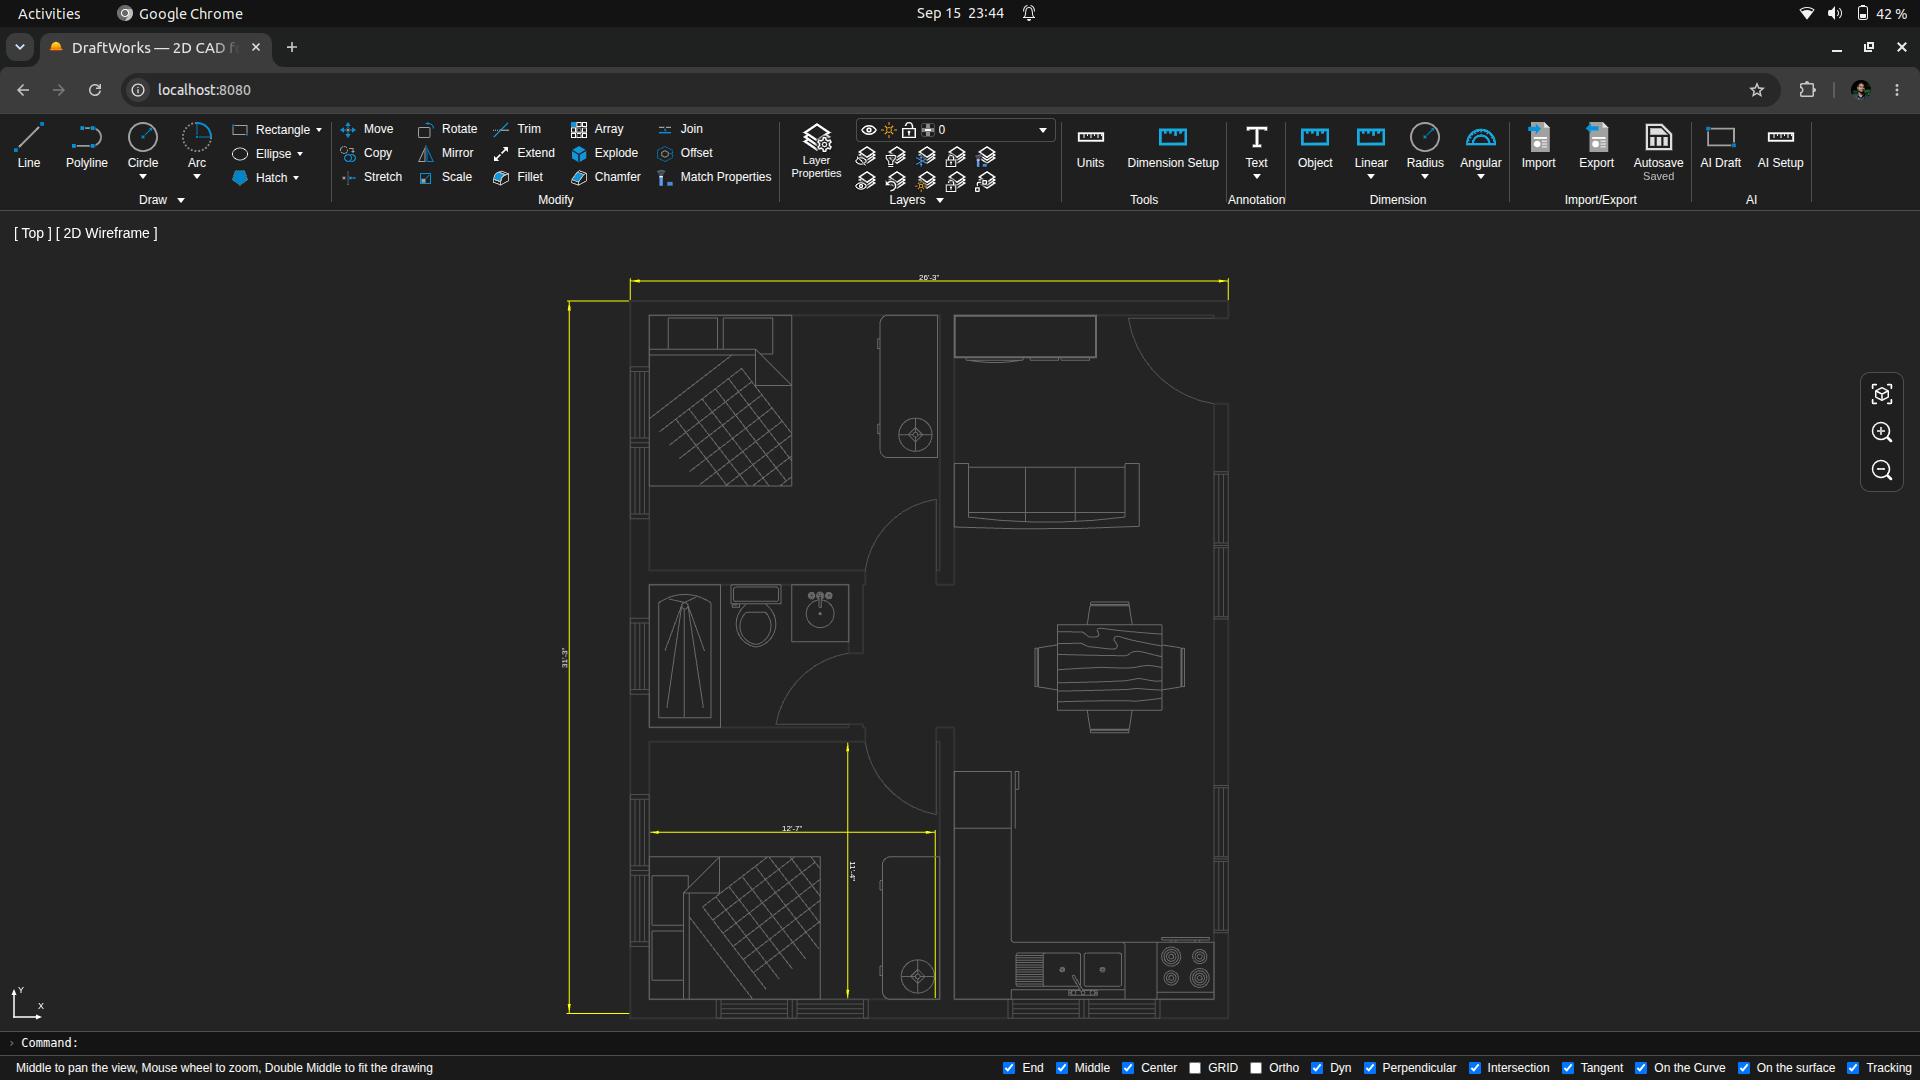
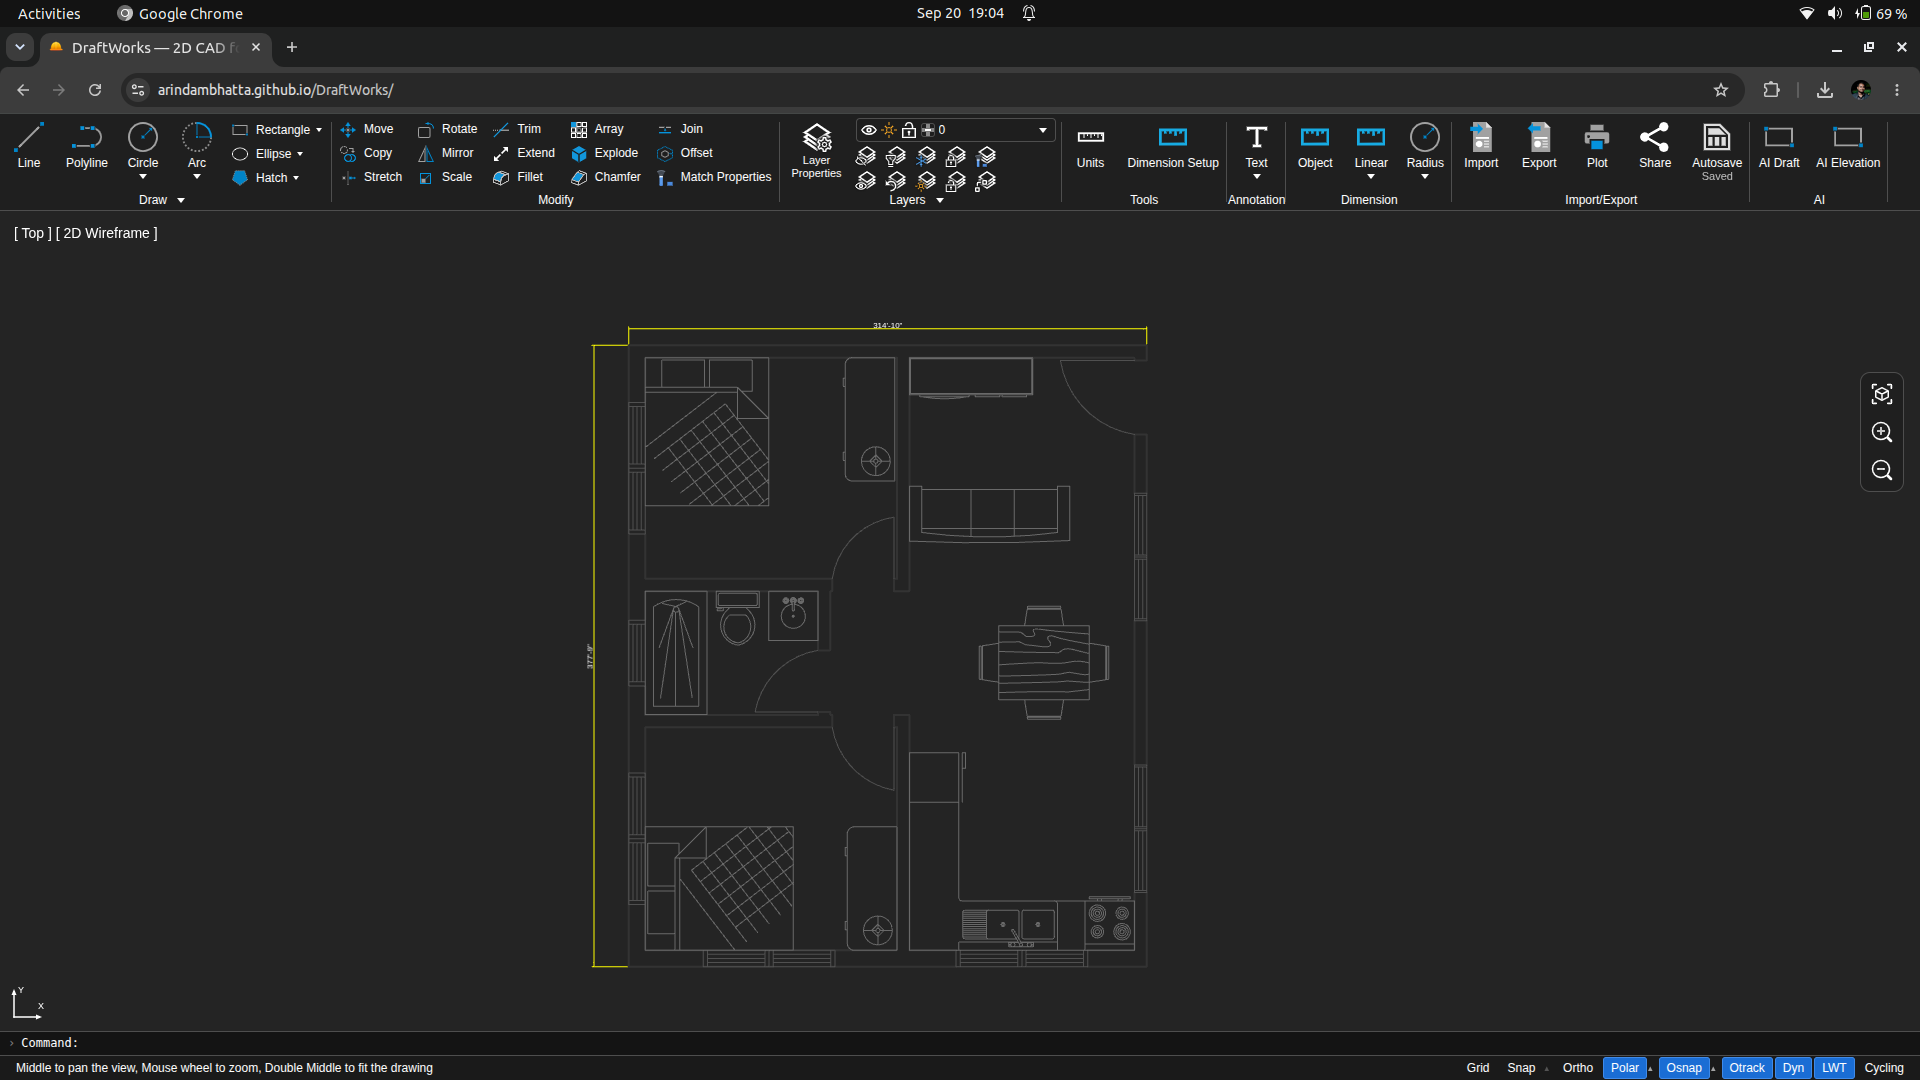
feat(docs): update README with enhanced descriptions and new images; add missing image files

diff --git a/README.md b/README.md
@@ -1,82 +1,184 @@
+<div align="center">
+
 # DraftWorks
 
-A web-based 2D CAD drafting application for civil engineering — structural drawings, architectural plans, and 2D elevations, running entirely in the browser. Similar to AutoCAD, but with a proactive UI: unit setup, dimension setup, and MV (paper/scale) setup are prompted upfront when a new drawing starts.
+**2D CAD drafting that opens in a browser tab.**
 
-DraftWorks pairs an OCCT (OpenCascade) geometry kernel compiled to WebAssembly with a Three.js renderer, so drafting stays precise (real B-Rep geometry, not just pixels) while running with no install and no server round-trip per edit.
+Structural drawings, architectural plans and elevations — with your real DWG files, at real scale, with no install and no license.
 
-## Architecture Drawing
-  <!-- ![Structural framing plan](doc/images/structural-plan.png) -->
-  ![Architectural floor plan](doc/images/architectural-plan.png)
+[**→ Open the app**](https://arindambhatta.github.io/DraftWorks/) · [Report an issue](https://github.com/ArindamBhatta/DraftWorks/issues) · [Architecture notes](doc/architecture.md)
 
-## Structural Drawing
+![Architectural floor plan drawn in DraftWorks](doc/images/architectural-plan.png)
 
+</div>
 
+---
 
+## Why this exists
 
+Every drafting tool asks you to choose between two bad options.
 
-## Features
+The desktop ones are correct but heavy: a license, an install, a machine you have to be sitting at. The browser ones are convenient but approximate — they draw pixels, call it CAD, and fall apart the moment someone sends you a DWG.
 
-- **AutoCAD-style drafting workflow** — command line with alias suggestions and history, unit/dimension/paper (MVSETUP) setup prompted when a new drawing starts
-- **Precise 2D geometry** — real curves and B-Rep edges under the hood, not approximated sketch lines
-- **Snapping & tracking** — object snap, axis/plane snap, point-on-curve snap, and alignment tracking lines
-- **Layers** — per-object layer assignment, current-layer workflow, quick move-to-layer
-- **Dimensioning** — configurable text height, arrow size, extension offset, and unit-aware precision
-- **Undo/redo & transactions** — every edit is transactional and revertible
+DraftWorks is the third option. Real B-Rep geometry from the OCCT kernel compiled to WebAssembly, AutoCAD's command line and function keys, your actual DWG files opening and saving locally — in a tab, on any machine, in about two seconds.
 
-## Tech stack
+**Nothing you draw leaves your computer.** There is no backend. Your drawings live in your browser, your DWG conversion happens in your browser, and if you use the AI features, your API key is yours and the request goes straight from the page.
 
-| Layer | Technology |
-| :--- | :--- |
-| Geometry kernel | OCCT (OpenCascade), compiled to WebAssembly |
-| Rendering | Three.js |
-| Application | TypeScript, npm workspaces monorepo |
-| Build | Rspack |
-| Testing | Rstest |
+---
 
-See [doc/architecture.md](doc/architecture.md) for how the packages fit together.
+## What you get
 
-## Getting started
+### 1. It asks the right questions before you draw a line
+
+<!-- SCREENSHOT: doc/images/unit-setup.png — the Unit Setup dialog, showing the length-type dropdown open and the live Sample Output -->
+![Unit setup dialog](doc/images/unit-setup.png)
+
+Start a new drawing, and DraftWorks asks what every experienced draftsman sets up first, instead of dropping you on a blank canvas with defaults you'll discover are wrong three hours in.
+
+**Units** — Architectural, Decimal, Engineering, Fractional or Scientific, with the precision list changing to match. Pick Architectural and you get fraction denominators down to 1/128". Pick Decimal and you get 0–8 places. Insertion units from millimeters to feet. A live sample reformats as you change it, so you see `5'-8 1/2"` before you commit.
+
+It reads input the way a draftsman writes it: `5'-8 1/2"`, `11'2"`, `8 1/2"`, `1745.50`, `1.7455E+03` all parse. Rounding happens at fraction granularity, so `11.99"` becomes `1'-0"` and not `0'-11"`.
+
+**Dimension styles** — a real named style table with current-style selection and unsaved overrides, exactly like AutoCAD's. Settings map one-to-one onto the DIMVARs you already know: `DIMDLE`, `DIMEXE`, `DIMEXO`, `DIMSE1`/`DIMSE2`, `DIMATFIT`, `DIMTOFL`, `DIMTOL`, `DIMGAP`. Arrowheads set independently per end. Tolerances with method, precision, alignment and zero suppression. ISO defaults out of the box — 2.5 text height, 2.5 arrows, 1.25 extension.
+
+Asked once. Remembered after that — reopen the app and you go straight to a blank drawing.
+
+### 2. Your DWG files just open
+
+<!-- SCREENSHOT: doc/images/dwg-import.png — a real DWG opened in DraftWorks, layers visible in the panel -->
+![A DWG file opened in DraftWorks](doc/images/dwg-import.png)
+
+DWG in, DWG out. DXF in, DXF out. Layers, linetypes and lineweights survive the round trip.
+
+This is the part most browser CAD tools skip, because DWG is a closed, undocumented format. The usual advice is "convert it in AutoCAD first" — which is not a workaround, because anyone who has AutoCAD doesn't need this application.
+
+So DraftWorks ships LibreDWG compiled to WebAssembly and does the conversion **locally, in your tab**. Your drawing is never uploaded anywhere. The module loads on demand, so you only pay for it when you open a DWG.
+
+Honest about the edges: export targets AutoCAD 2000 (R2000) — that's LibreDWG's encoder ceiling, and the dialog says so rather than leaving it vague. Unsupported entities are reported, never dropped silently. If DWG encoding fails you get told, not a DXF quietly renamed `.dwg`.
+
+### 3. AI that drafts — and asks before it guesses
+
+<!-- SCREENSHOT: doc/images/ai-panel.png — the AI panel mid-conversation, showing a clarifying question and a geometry preview -->
+![AI drafting panel](doc/images/ai-panel.png)
+
+Describe what you need. Get real geometry you can dimension, edit and export.
+
+> *"400 dia 12 m pile with helical stirrups"*
+> *"3-pile pile cap, plan and section"*
+> *"I have a 30x40 plot, give me a 2BHK plan"*
+> *"flange, 150 NB, 8 bolt holes"*
+
+Four modes — **Architectural**, **Structural**, **Mechanical** and **Freehand**. The three technical modes **ask clarifying questions before drawing anything**, because a pile detail with a guessed cover depth is worse than no pile detail. Freehand skips the questions and just sketches.
+
+Everything lands as a **preview you confirm** before it touches your drawing. If a parameter was misread, an **Adjust** form lets you correct it without retyping the sentence — and that form works with no API key and no network at all. Each mode keeps its own conversation, so a follow-up revises that drawing rather than starting over. You can edit an earlier prompt and the thread rewinds to it.
+
+**ELEVATION** is the one to try. Draw a plan, pick two corners, choose a side — and DraftWorks reads the facade out of your actual geometry, so openings land at the plan's own spacing. It then asks only what a plan cannot tell it: storeys, plinth, floor-to-floor, sill, lintel, roof type. No AI involved, no guessing.
+
+Bring your own key: **Claude** (`claude-opus-5`) or **Gemini** (`gemini-2.5-pro`). Stored in your browser, sent straight to the provider. Point it at your own proxy if you'd rather keep the key server-side.
+
+### 4. Your work saves itself
+There is no Save button, because there is nothing to remember to press.
+
+Every edit schedules a save two seconds after you stop working — debounced, not a timer that fires mid-command. It writes to IndexedDB **backup first, then primary**, so a browser that dies mid-write leaves your last good drawing intact in both slots instead of a hole. A status light in the ribbon tells you where you stand: pending, saving, saved, offline, error.
+
+Multiple drawings open at once, each saving independently. A recents list with thumbnails. `Ctrl+S` still works if your hands insist.
+
+### 5. Plots at real scale, to PDF
+
+<!-- SCREENSHOT: doc/images/plot-dialog.png — the plot dialog with the live sheet preview -->
+![Plot dialog with live preview](doc/images/plot-dialog.png)
+
+A0 through A4, Letter, Tabloid or custom. Portrait or landscape. Display, Extents or Window.
+
+Standard scales — **1:1, 1:2, 1:5, 1:10, 1:20, 1:25, 1:50, 1:100, 1:200, 1:500, 1:1000** — plus fit-to-paper and free numeric. Draw in feet and plot at 1:50 and the conversion is handled; your sheet comes out right.
+
+Plot styles for Color, Monochrome and Grayscale. Lineweights honored, and *not* scaled by default, because a 0.5 mm pen is 0.5 mm on paper whatever the drawing scale. Plot offset, centering, unprintable margin.
+
+And a **live preview before you commit**, rendering the same sheet the PDF writer uses — not an approximation of it. A plot is the one operation you can't undo.
+
+### 6. The muscle memory carries over
+
+**72 commands**, with the aliases already in your fingers.
+
+`l` line · `pl` polyline · `c` circle · `a` arc · `rec` rectangle · `pol` polygon · `spl` spline · `h` hatch · `t` mtext · `dt` text · `po` point
+`m` move · `co` copy · `ro` rotate · `mi` mirror · `sc` scale · `s` stretch · `tr` trim · `ex` extend · `o` offset · `f` fillet · `cha` chamfer · `ar` array · `br` break · `j` join · `x` explode · `ma` matchprop · `e` erase · `pr` properties
+`dli` linear · `dal` aligned · `dra` radius · `ddi` diameter · `dan` angular · `d` dimstyle
+`la` layer, plus all ten LAY* quick actions — LAYOFF, LAYISO, LAYFRZ, LAYLCK, LAYMCUR and the rest
+
+**Space and Enter repeat the last command.** Trim and Extend have Quick and Standard modes. Fillet and Chamfer carry Radius, Distance, Angle and Trim/No-Trim. Array does rectangular and polar. Offset has Through. The command line suggests as you type and keeps history.
+
+### 7. Snapping you can trust
+Fifteen object snap modes — endpoint, midpoint, center, intersection, perpendicular, tangent, extension, parallel, on-curve, vertex and more — with AutoCAD-style marker glyphs sized in pixels, so they stay readable at any zoom. The snap you'll actually get is amber; the ones merely on offer are green.
+
+The function keys are where you left them:
+
+| | | | |
+|---|---|---|---|
+| **F3** Object snap | **F7** Grid | **F8** Ortho | **F9** Grid snap |
+| **F10** Polar tracking | **F11** Snap tracking | **F12** Dynamic input | **F1** Shortcuts |
+
+**Ortho constrains direction without giving up your snaps.** Drag vertically onto an endpoint that shares your reference X and you get that endpoint exactly — marker and all — with the segment still perfectly vertical. Polar tracking radiates paths at every multiple of your configured angle. Ortho and Polar interlock, as they should.
+
+Dynamic input boxes at the crosshair for typed distances and angles.
+
+### 8. Layers and properties, transactional
+
+Per-layer color, lock, freeze, linetype and lineweight — and layer changes go on the undo stack like everything else. A Layers widget laid out the way you expect: properties on the left, current-layer combo above the quick actions.
+
+Linetypes resolve `byLayer` before they reach the renderer. A properties panel with typed editors for color, layer, linetype, transform and measured geometry facts. MATCHPROP to copy between objects.
+
+**Every edit is a transaction.** Undo and redo cover all of it.
+
+---
+
+## What it doesn't do yet
+
+Worth saying plainly, so nothing surprises you:
+
+- **No blocks.** No BLOCK/INSERT/WBLOCK, no block table. Folders group objects in the project tree; imported files land in a folder of their own.
+- **Model space only.** No layout tabs or paper space — scale is handled at plot time.
+- **No templates.** New drawings start blank and are configured by the setup prompts.
+- **No image export.** PDF via plot, DWG/DXF via export, and that's the list.
+- Circle Tan-Tan-Radius and Tan-Tan-Tan are visible but greyed out — the tangent solve isn't written yet.
+
+### Roadmap
+
+Cloud-hosted drawings, live collaboration and shared links are planned for v2 and are **not in this build** — the Share button currently hands out a link to the app, not to your drawing.
+
+---
+
+## Try it and tell me what's wrong
+
+**[arindambhatta.github.io/DraftWorks](https://arindambhatta.github.io/DraftWorks/)** — no signup, no install.
+
+I'm building this for civil engineers, and the fastest way it gets good is people who draft for a living telling me where it fights them. Open an issue for anything: a command that behaves wrong, a DWG that won't import, a dialog that asks the wrong question, a dimension that plots at the wrong size. Attach the file if you can.
+
+If it's useful to you, a ⭐ genuinely helps more people find it.
+
+---
+
+## Running it locally
 
 ```bash
-# 1. Install JS dependencies and set up the WASM toolchain (first run only)
 npm install
-npm run setup:wasm
-
-# 2. Build the WebAssembly geometry kernel
-npm run build:wasm
-
-# 3. Run the app in dev mode
+npm run setup:wasm     # first run only — fetches the WASM toolchain
+npm run build:wasm     # builds the OCCT + LibreDWG kernels
 npm run dev
 ```
 
-Other useful scripts:
-
 ```bash
 npm run build   # production build
-npm test        # run the test suite
+npm test        # test suite
 npm run check   # lint/format with Biome
 ```
 
-## Project structure
+See [doc/architecture.md](doc/architecture.md) for how the packages fit together.
 
-```
-packages/
-  core     — framework-agnostic interfaces & engine (document model, commands, snapping, undo/redo)
-  app      — concrete Application/Document, command implementations
-  wasm     — OCCT geometry kernel bindings
-  three    — Three.js rendering implementation
-  ui       — UI components (ribbon, dialogs, panels)
-  element  — low-level DOM element helpers
-  storage  — persistence (IndexedDB)
-  i18n     — translations
-  builder  — composition root wiring everything together
-  web      — app entry point
-cpp/       — OCCT WebAssembly module source & build
-```
+## Built on
 
-## Acknowledgements
+DraftWorks stands on [Chili3D](https://github.com/xiangechen/chili3d) by [xiangechen](https://github.com/xiangechen) — an excellent open-source browser CAD project. The OCCT/WebAssembly integration, the core document/command/snapping engine and the Three.js rendering layer started there and were adapted and extended toward 2D civil-engineering drafting. Many thanks to its authors and contributors.
 
-DraftWorks is built on top of [Chili3D](https://github.com/xiangechen/chili3d), an excellent open-source browser CAD project by [xiangechen](https://github.com/xiangechen). A large part of this codebase — the OCCT/WebAssembly integration, the core document/command/snapping engine, and the Three.js rendering layer — started from Chili3D and was then adapted and extended toward 2D civil-engineering drafting. Many thanks to the Chili3D authors and contributors.
+DWG support uses [LibreDWG](https://www.gnu.org/software/libredwg/). Geometry is [OCCT](https://dev.opencascade.org/). Rendering is [Three.js](https://threejs.org/).
 
 ## License
 
